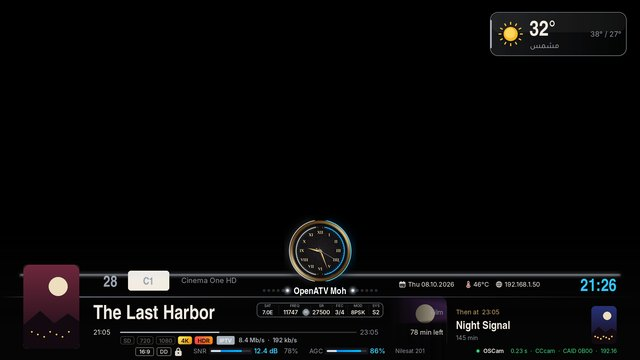
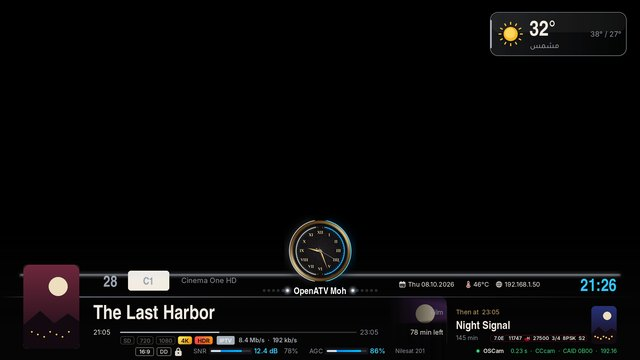
MohammedSkin 2.1.108 files

Changed region(s): [[0.4062, 0.825, 0.5938, 0.8861], [0.7812, 0.9167, 0.9375, 0.9472]]

diff --git a/usr/lib/enigma2/python/Plugins/Extensions/MohammedSkin/plugin.py b/usr/lib/enigma2/python/Plugins/Extensions/MohammedSkin/plugin.py
@@ -289,6 +289,7 @@ class MohammedSkinSetup(Screen):
 		self.adult = ConfigSelection(choices=[("off", t("Off")), ("normal", t("On (adult and erotic titles)")),
 			("strict", t("Strict (also nudity, R and TV-MA)"))], default=U.adult_level())
 		self.backdrops = ConfigYesNo(default=bool(s.get("backdrops", True)))
+		self.anim = ConfigYesNo(default=bool(s.get("anim", True)))
 		self.fitScreens = ConfigYesNo(default=bool(s.get("fit_screens", True)))
 		self.ibBackdrop = ConfigSelection(choices=[(n, t(l)) for n, l in U.IB_BACKDROP], default=U.ib_backdrop())
 		self.ibLed = ConfigYesNo(default=bool(s.get("ib_led", True)))
@@ -322,6 +323,7 @@ class MohammedSkinSetup(Screen):
 			id(self.language): "Language used for TMDB searches.",
 			id(self.posters): "Show posters in the infobars and channel list.",
 			id(self.backdrops): "Show backdrops behind the event.",
+			id(self.anim): "Running lights and glowing frames (like the transponder box). Turn off to keep them still. Moving event names and the clocks are not affected.",
 			id(self.chFont): "Size of the channel names, numbers and event text in the channel list. Saving restarts the GUI.",
 			id(self.chRows): "Height of each channel row: compact shows more channels, large and extra large show fewer and bigger. Saving restarts the GUI.",
 			id(self.plFont): "Size of the text and rows in the plugin list (Menu > Plugins). Saving restarts the GUI.",
@@ -382,6 +384,7 @@ class MohammedSkinSetup(Screen):
 			id(self.arPosters): {"auto": "Arabic poster on Nilesat, Arabsat and Badr channels.", "always": "Arabic poster on every channel when there is one.", "off": "Always the English poster."},
 			id(self.translate): {Y: "Titles and descriptions are translated to the language below.", N: "Everything stays in the language the channel sends."},
 			id(self.trService): {"auto": "Free, no key needed.", "microsoft": "Uses your own Microsoft key (set below).", "deepl": "Uses your own DeepL key (set below)."},
+			id(self.anim): {Y: "Lights and glows move and pulse.", N: "Lights and glows stay still."},
 			id(self.smooth): {"smooth": "The seconds hand glides.", "tick": "The seconds hand jumps once a second (lighter for slow boxes)."},
 			id(self.weather): {Y: "Weather card in the infobars.", N: "No weather."},
 			id(self.weatherLoc): {"auto": "Found from your internet connection.", "list": "The city you picked from the list (press OK).", "city": "The city you typed below."},
@@ -393,7 +396,7 @@ class MohammedSkinSetup(Screen):
 		self.groups = [
 			[E("Skin colour theme", self.theme), E("Menu style", self.menuStyle), E("Main menu background", self.menuBg), E("Menu animation", self.menuAnim), E("Fill the whole screen", self.osdFit), E("Arabic text font", self.arText), E("Arabic title font", self.arTitle),
 				E("Fit plugin windows to the screen", self.fitScreens)],
-			[E("Infobar style", self.ibxStyle), E("Infobar transparency", self.ibAlpha), E("Channel logo and name size", self.ibChan), E("Backdrop above the infobar", self.ibBackdrop), E("Light line on the infobar", self.ibLed), E("Infobar texts language", self.labelLang), E("Date format", self.dateFormat), E("Signal bars colour", self.ibMeterColor), E("Dark backing behind signal bars", self.meterBack), E("Signal bars shape", self.ibMeterShape), E("Second infobar style", self.sibStyle),
+			[E("Infobar style", self.ibxStyle), E("Infobar transparency", self.ibAlpha), E("Channel logo and name size", self.ibChan), E("Backdrop above the infobar", self.ibBackdrop), E("Light line on the infobar", self.ibLed), E("Animated lights and glows", self.anim), E("Infobar texts language", self.labelLang), E("Date format", self.dateFormat), E("Signal bars colour", self.ibMeterColor), E("Dark backing behind signal bars", self.meterBack), E("Signal bars shape", self.ibMeterShape), E("Second infobar style", self.sibStyle),
 				E("Classic infobar poster", self.ibStyle), E("Show rating stars", self.rating), E("3D channel logo when no poster", self.logo3d)],
 			[E("Channel list style", self.chStyle), E("Channel list text size", self.chFont), E("Channel list rows", self.chRows), E("Channel list picture", self.chPreview), E("Programme name colour", self.eventColor),
 				E("Plugin list layout", self.plLayout), E("Plugin list text size", self.plFont)],
@@ -907,7 +910,7 @@ class MohammedSkinSetup(Screen):
 				"terms_ok": bool(U.terms_accepted() or getattr(self, "termsOk", False)),
 				"terms_sig": U.terms_sig() if (U.terms_accepted() or getattr(self, "termsOk", False)) else "",
 				"language": self.language.value, "posters": self.posters.value, "backdrops": self.backdrops.value,
-				"translate": self.translate.value, "clock_smooth": self.smooth.value == "smooth", "rating": self.rating.value,
+				"translate": self.translate.value, "clock_smooth": self.smooth.value == "smooth", "anim": self.anim.value, "rating": self.rating.value,
 				"ch_font": self.chFont.value, "ch_rows": self.chRows.value, "pl_font": self.plFont.value,
 				"ib_alpha": self.ibAlpha.value, "ib_chan": self.ibChan.value, "ch_preview": self.chPreview.value, "event_color": self.eventColor.value, "adult_filter": self.adult.value if U.is_owner() else "strict",
 				"ar_text_font": self.arText.value, "ar_title_font": self.arTitle.value,

diff --git a/usr/lib/enigma2/python/Plugins/Extensions/MohammedSkin/lang.py b/usr/lib/enigma2/python/Plugins/Extensions/MohammedSkin/lang.py
@@ -47,6 +47,9 @@ AR = {
 	"Extra large (fewer channels)": u"كبير جداً (قنوات أقل)", "Very transparent": u"شفاف جداً", "Transparent": u"شفاف", "Dark": u"غامق",
 	"Very dark": u"غامق جداً", "Top right": u"أعلى اليمين", "Top centre": u"أعلى الوسط", "Above the infobar, right": u"فوق الإنفوبار يمين",
 	"Above the infobar, left": u"فوق الإنفوبار يسار", "Grid (tiles side by side)": u"مربعات جنب بعض", "List": u"قائمة",
+	"Animated lights and glows": u"الإضاءات والتوهج المتحرك",
+	"Running lights and glowing frames (like the transponder box). Turn off to keep them still. Moving event names and the clocks are not affected.": u"الإضاءات الجارية والإطارات المتوهجة (مثل مربع التردد). أطفئها لتبقى ثابتة. اسم الحدث المتحرك والساعات لا يتأثران.",
+	"Lights and glows move and pulse.": u"الإضاءات والتوهج تتحرك وتنبض.", "Lights and glows stay still.": u"الإضاءات والتوهج ثابتة.",
 	"Smooth sweep": u"حركة ناعمة", "One step per second": u"خطوة كل ثانية", "Celsius (°C)": u"مئوية (°C)", "Fahrenheit (°F)": u"فهرنهايت (°F)",
 	"Off": u"إيقاف", "On (adult and erotic titles)": u"تشغيل (أفلام الكبار)", "Strict (also nudity, R and TV-MA)": u"صارم (يشمل العري و R و TV-MA)",
 	"Arabic channels (Nilesat, Arabsat, Badr)": u"القنوات العربية (نايلسات، عربسات، بدر)", "Always when there is one": u"دائماً لو موجود",

diff --git a/usr/lib/enigma2/python/Components/Renderer/MohammedFrames.py b/usr/lib/enigma2/python/Components/Renderer/MohammedFrames.py
@@ -73,9 +73,23 @@ class MohammedFrames(Renderer):
 			return self.interval or 250
 		return 1000
 
+	def still(self):
+		# decorative movement (running lights, glows) can be switched off in the setup; the clocks always run
+		return self.mode in ("cycle", "bounce", "once") and not U.settings().get("anim", True)
+
+	def still_index(self):
+		if self.mode == "once":
+			return self.count - 1
+		if self.mode == "bounce":
+			return self.count // 2
+		return 0
+
 	def frame_index(self, now=None):
 		t = time() if now is None else now
 		lt = localtime(t)
+		if self.still():
+			self.k = self.still_index()
+			return self.k
 		if self.mode == "once":
 			self.k = min(self.k + 1, self.count - 1)
 			return self.k
@@ -112,6 +126,8 @@ class MohammedFrames(Renderer):
 					self.instance.setPixmap(ptr)
 			except Exception as e:
 				print("[MohammedFrames] %s" % e)
+		if self.still():
+			return  # animations are off: one fixed picture, no timer
 		if self.mode == "once" and self.k >= self.count - 1:
 			return  # played: the last frame stays, no timer
 		if self.mode == "second" and not self.smooth():

diff --git a/usr/lib/enigma2/python/Components/MohammedSkinUtils.py b/usr/lib/enigma2/python/Components/MohammedSkinUtils.py
@@ -25,7 +25,7 @@ NEGATIVE_TTL = 30 * 60  # retry titles that found nothing after 30 minutes
 TIMEOUT = 5
 UA = "Mozilla/5.0 (Enigma2; MohammedSkin)"
 
-SKIN_VERSION = "2.1.107"
+SKIN_VERSION = "2.1.108"
 
 UPDATE_BASE = "https://raw.githubusercontent.com/mido00020/MohammedSkin/main"
 UPDATE_CMD = 'wget -q --no-check-certificate "%s/installer.sh" -O - | NORESTART=1 /bin/sh' % UPDATE_BASE
@@ -41,6 +41,7 @@ DEFAULT_SETTINGS = {
 	"theme": "red",
 	"clock": "royal",
 	"clock_smooth": True,
+	"anim": True,      # animated lights and glows (running lights, pulsing frames); off = they stay still
 	"menu_style": "classic",
 	"channels_style": "classic",
 	"infobar_style": "classic",  # first infobar: classic | red3d | holo | film | diagonal | s1 .. s4 | filmstrip | capsule
